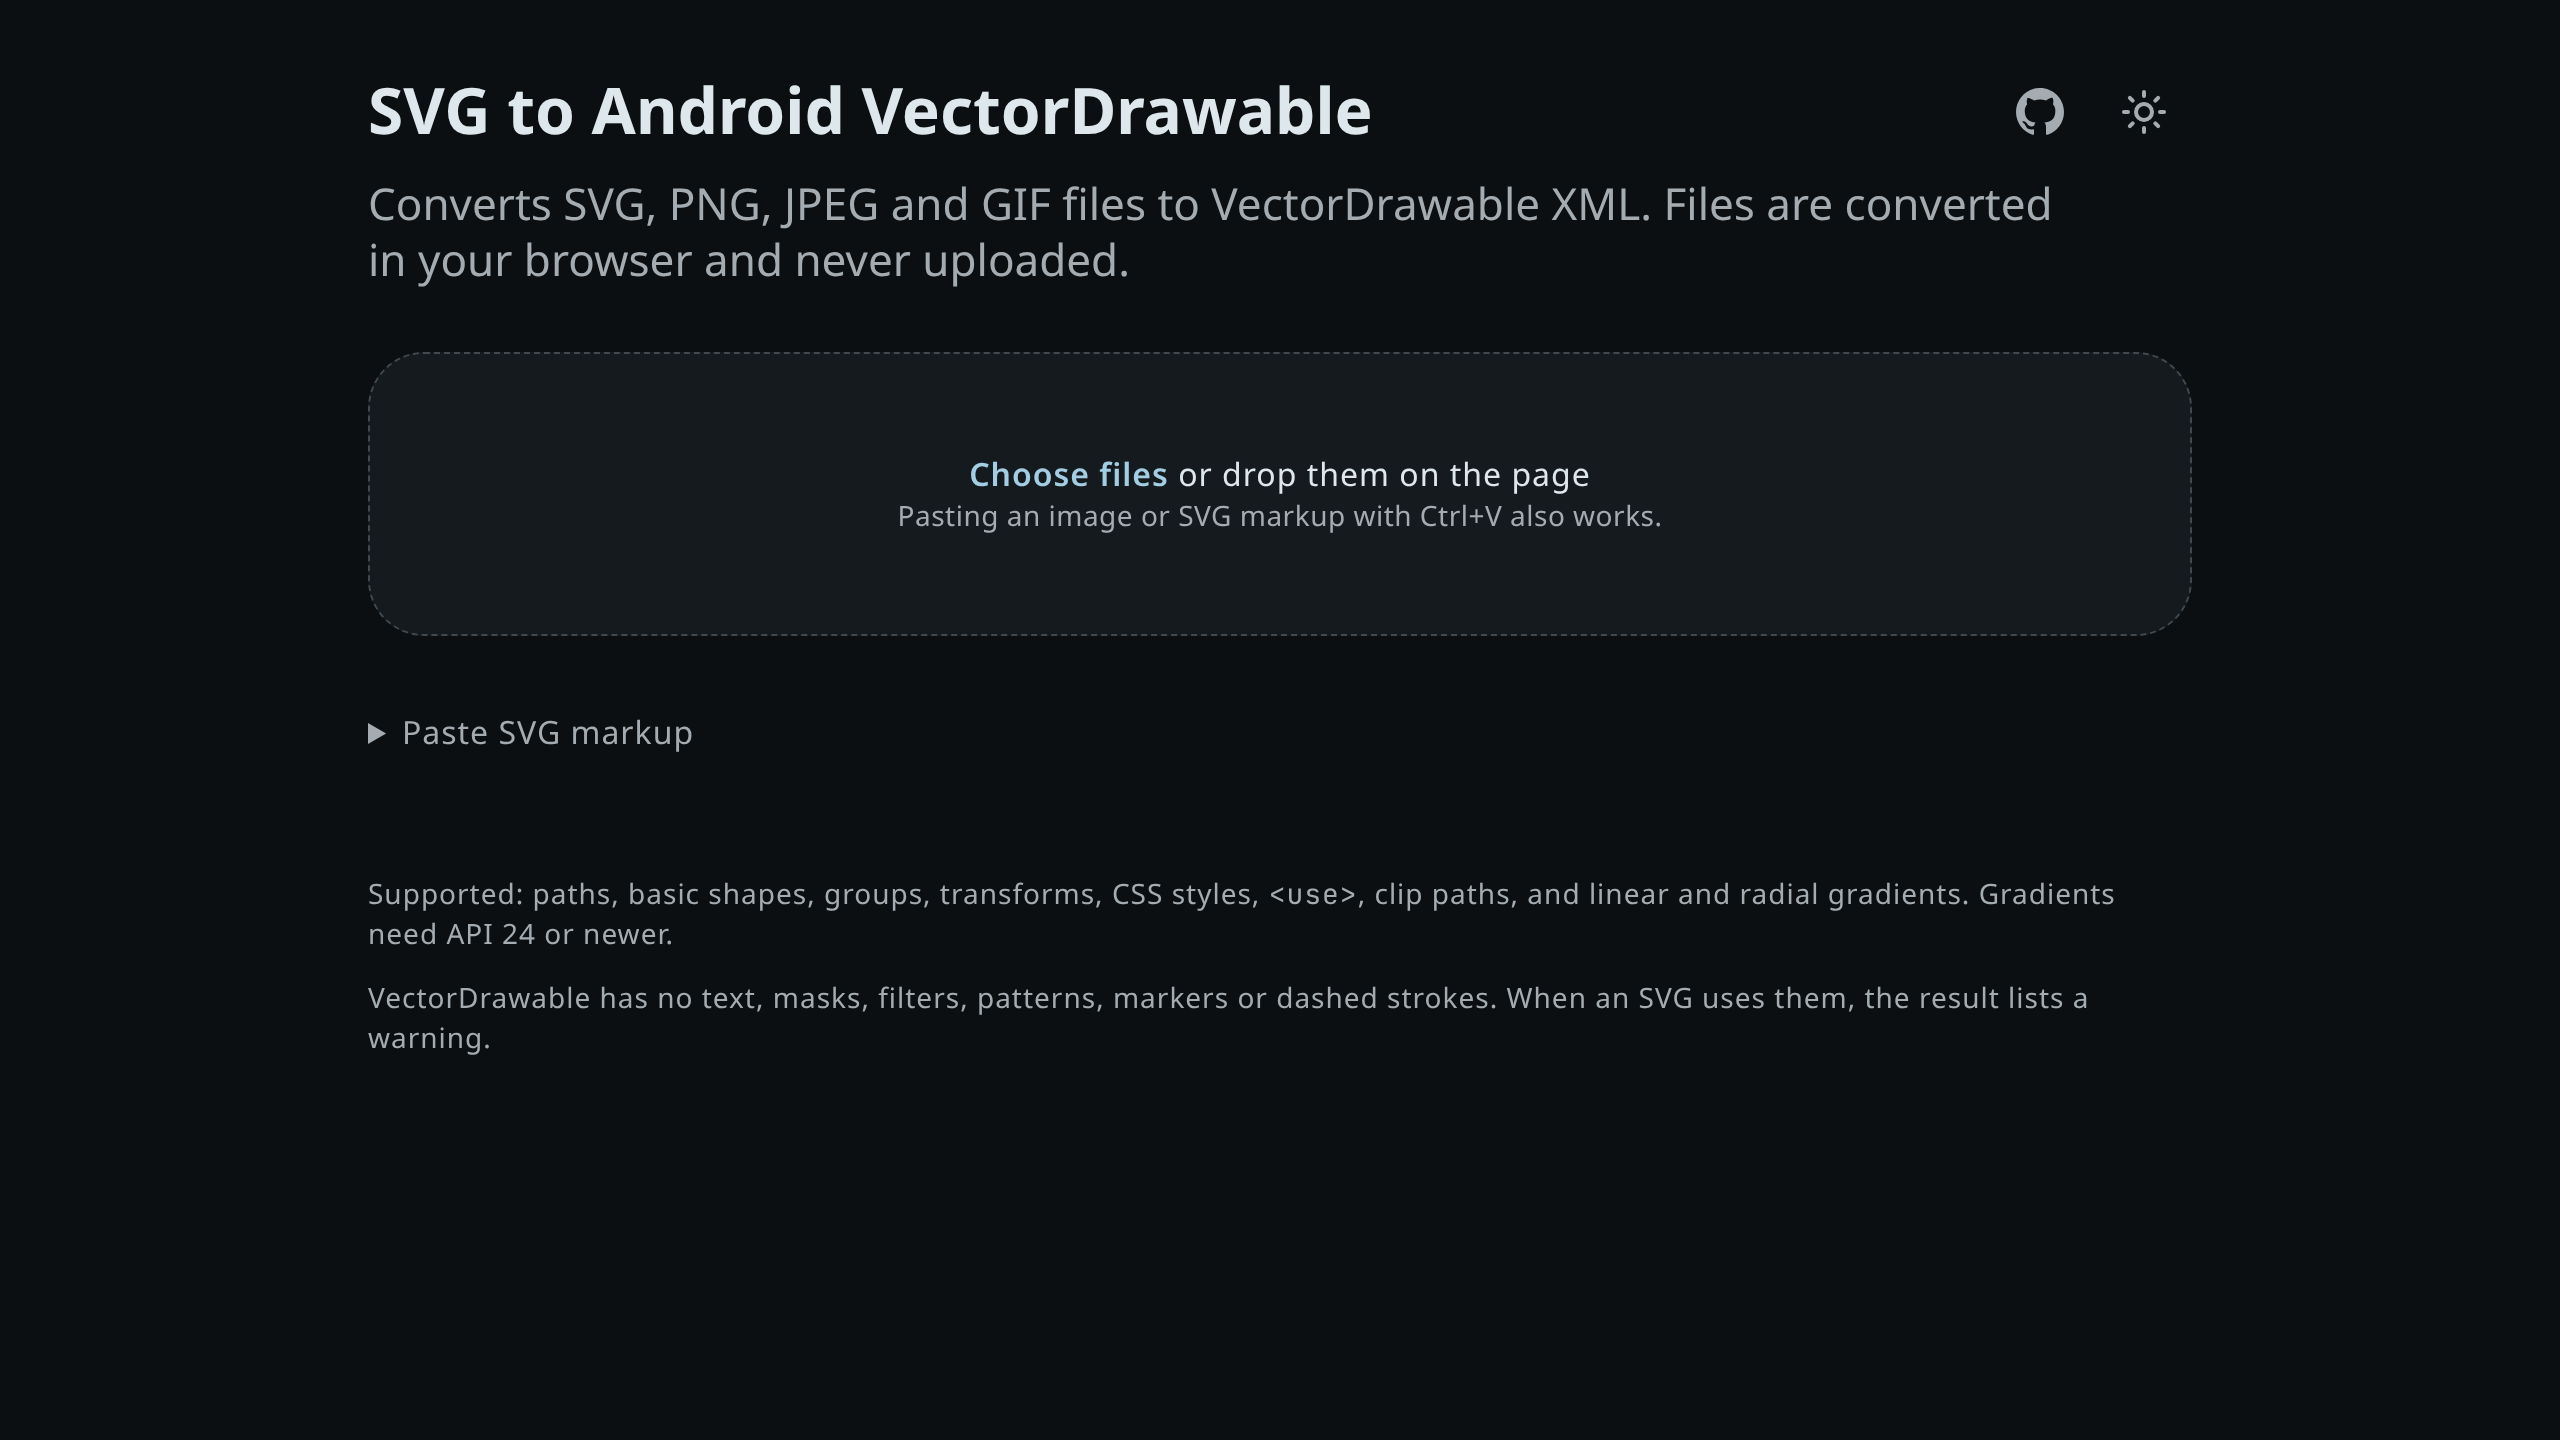
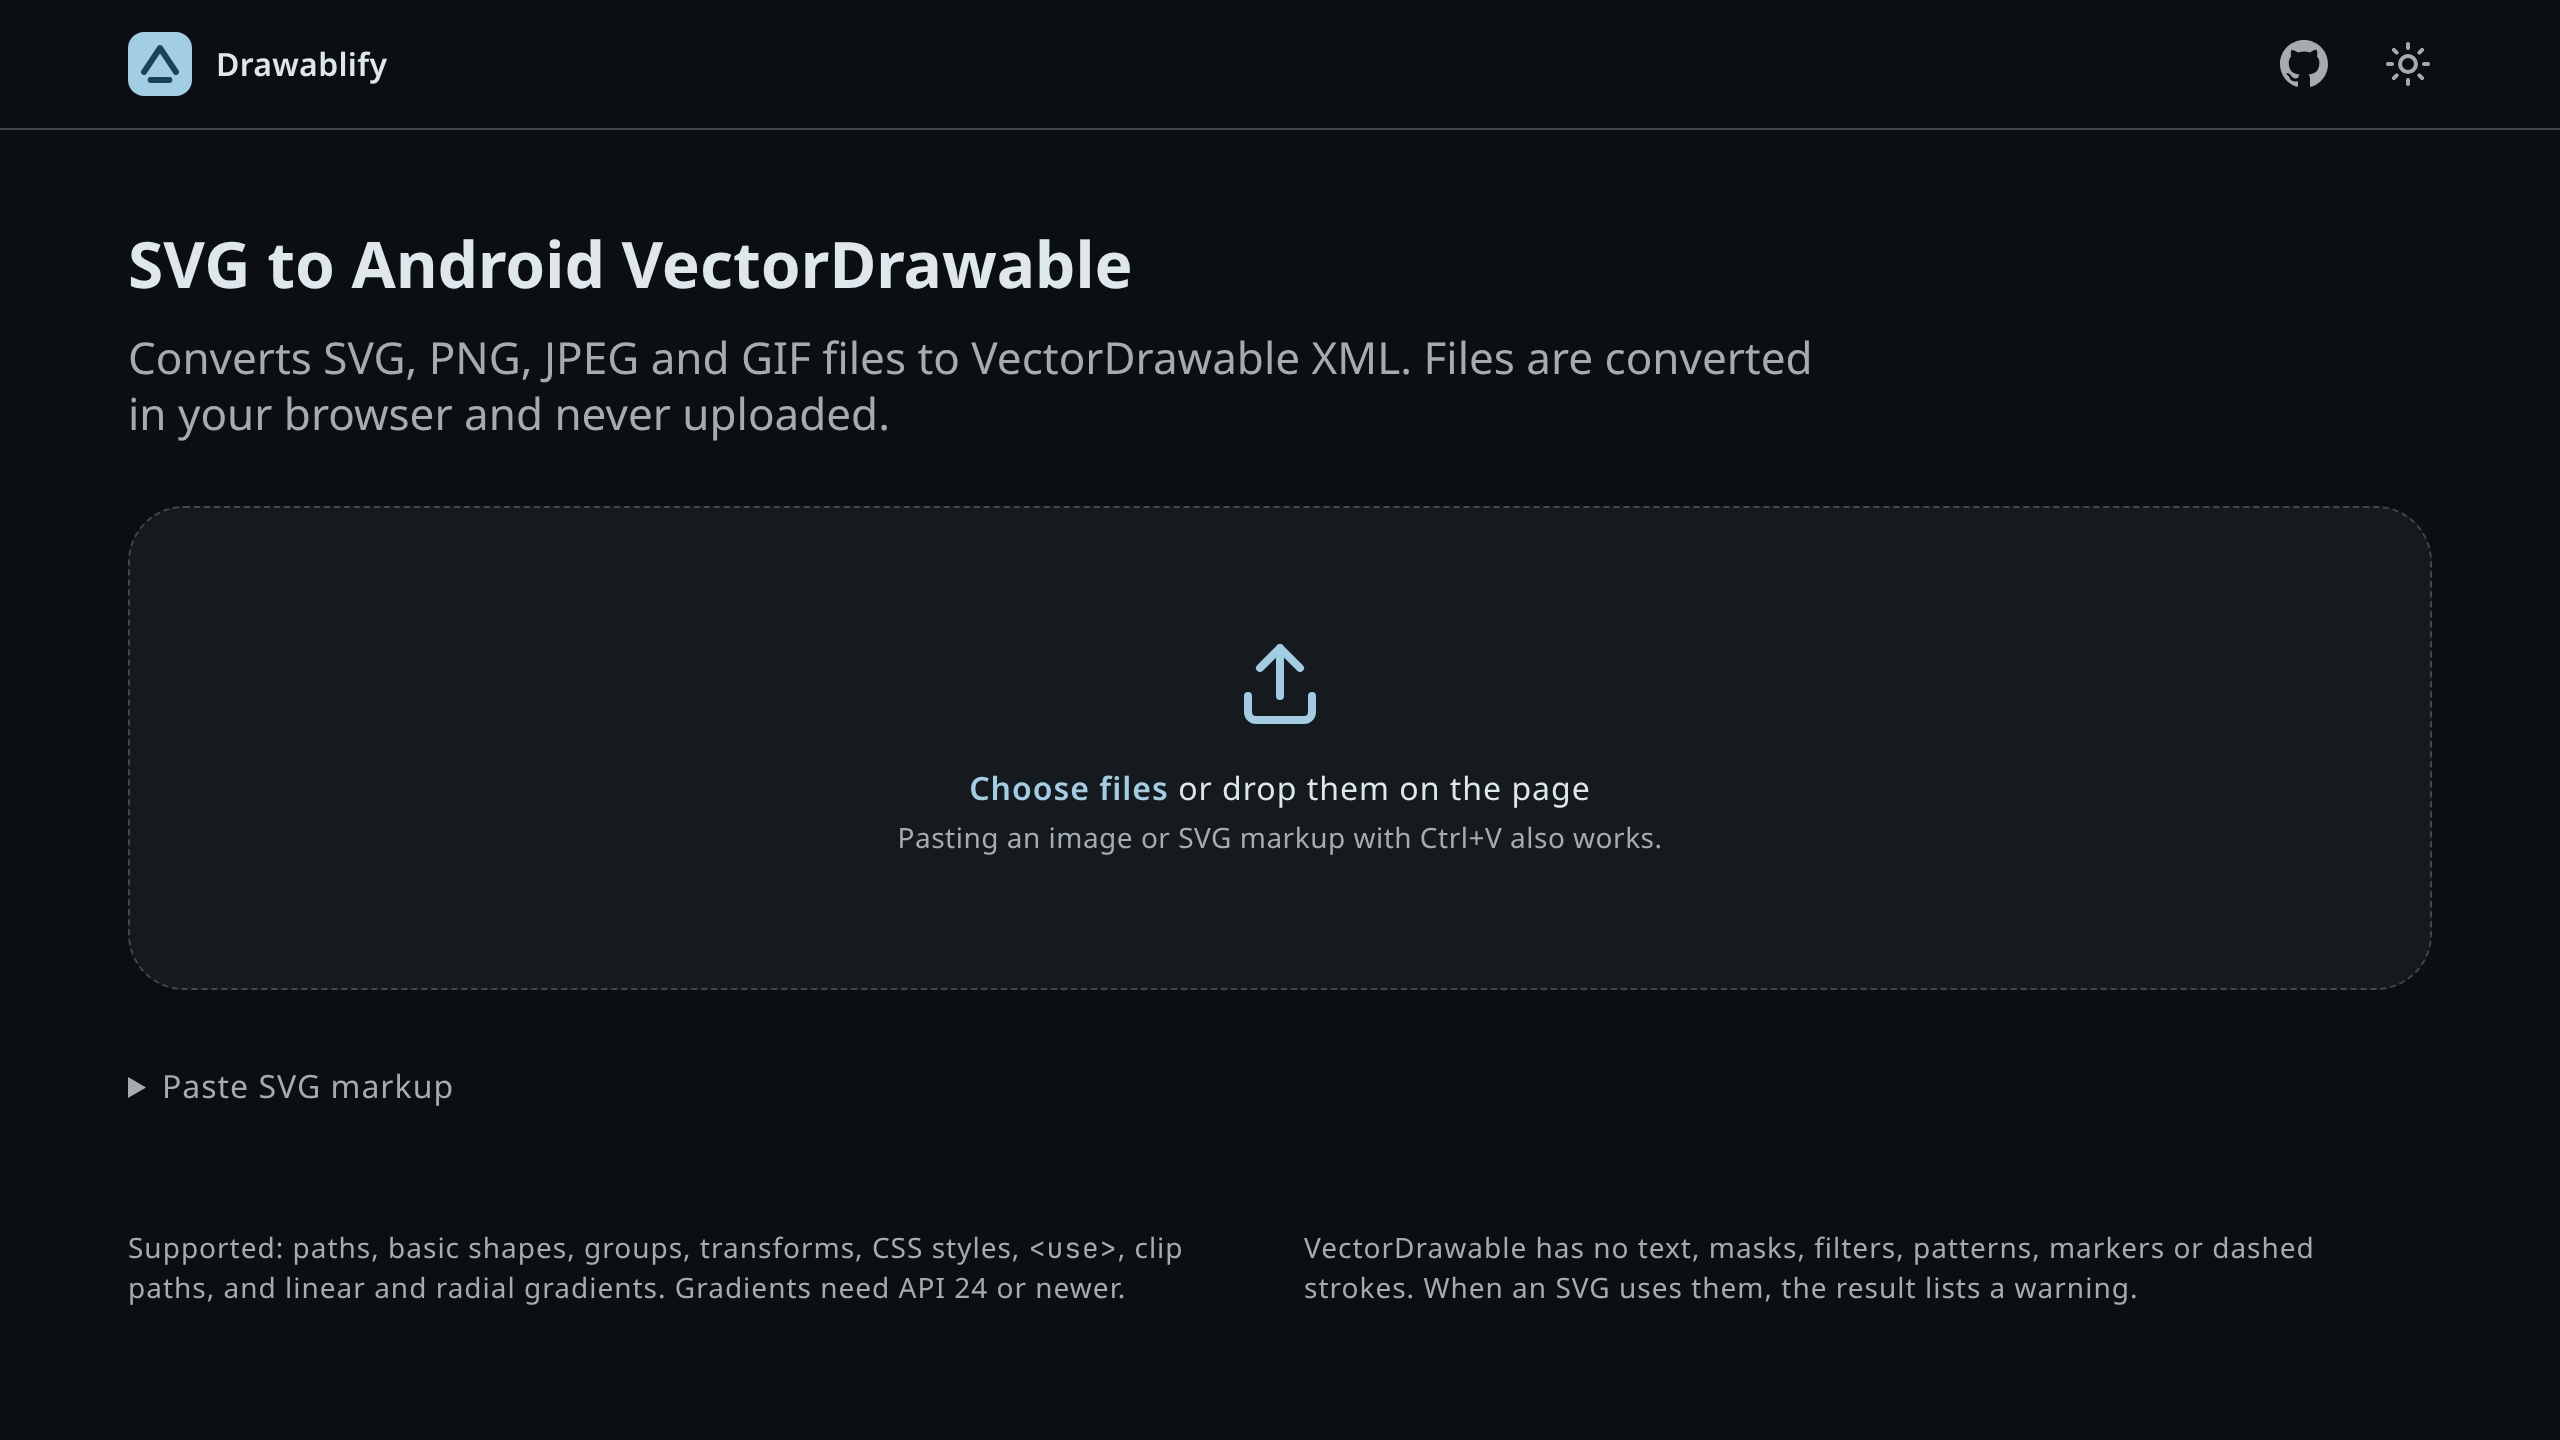
style: add a top bar and use the width on large screens
A sticky bar holds the name, the GitHub link and the theme toggle. The
content column grows to 1200px, and from 900px a result card puts the
previews beside the XML instead of stacking them. Screenshots updated.

diff --git a/index.html b/index.html
@@ -56,18 +56,23 @@ body, .card, textarea, select, input, dialog {
 }
 [hidden] { display: none !important; }
 body { margin: 0; background: var(--surface); color: var(--on-surface); font: 400 16px/24px var(--sans); letter-spacing: .5px; }
-main { max-width: 960px; margin: 0 auto; padding: 32px 24px 64px; }
+main { max-width: 1200px; margin: 0 auto; padding: 48px 24px 64px; }
 
-.top { display: flex; align-items: flex-start; justify-content: space-between; gap: 16px; }
-h1 { font-size: 32px; line-height: 40px; font-weight: 700; letter-spacing: 0; margin: 4px 0 12px; }
-.top nav { display: flex; gap: 4px; flex: none; }
+/* The bar spans the window and stays put; its content lines up with main below it. */
+.appbar { position: sticky; top: 0; z-index: 1; background: var(--surface); border-bottom: 1px solid var(--outline-variant); }
+.appbar nav { max-width: 1200px; margin: 0 auto; padding: 8px 12px 8px 24px; display: flex; align-items: center; gap: 4px; }
+.brand { display: flex; align-items: center; gap: 12px; margin-right: auto; color: inherit; text-decoration: none;
+  font-size: 16px; line-height: 24px; font-weight: 600; letter-spacing: .15px; }
+.brand img { width: 32px; height: 32px; }
+h1 { font-size: 32px; line-height: 40px; font-weight: 700; letter-spacing: 0; margin: 0 0 12px; }
 .intro { font-size: 22px; line-height: 28px; color: var(--on-surface-variant); margin: 0 0 32px; max-width: 68ch; letter-spacing: 0; }
 .small { color: var(--on-surface-variant); font-size: 14px; line-height: 20px; letter-spacing: .25px; }
 
-#drop { display: block; border: 1px dashed var(--outline-variant); border-radius: 28px; padding: 48px 24px; text-align: center;
+#drop { display: grid; justify-items: center; gap: 4px; border: 1px dashed var(--outline-variant); border-radius: 28px; padding: 64px 24px; text-align: center;
   cursor: pointer; background: var(--surface-container); transition: background var(--motion-effects), border-color var(--motion-effects); }
 #drop:focus-within, .over #drop { border-color: var(--primary); }
 .over #results { outline: 1px dashed var(--primary); outline-offset: 8px; border-radius: 28px; }
+#drop svg { width: 48px; height: 48px; color: var(--primary); margin-bottom: 12px; }
 #drop strong { color: var(--primary); font-weight: 600; }
 #drop input { position: absolute; opacity: 0; width: 1px; height: 1px; }
 
@@ -156,6 +161,18 @@ dialog.closing::backdrop { animation: fade var(--motion-effects) reverse forward
 
 footer { margin-top: 48px; color: var(--on-surface-variant); font-size: 14px; line-height: 20px; }
 footer p { margin: 0 0 12px; }
+/* Wide screens: the card turns sideways, previews on the left and the XML filling the right, so a
+   result fits on one screen instead of being a tall strip down the middle. */
+@media (min-width: 900px) {
+  .body { display: grid; grid-template-columns: minmax(0, 5fr) minmax(0, 7fr); grid-template-rows: auto 1fr auto; column-gap: 24px;
+    grid-template-areas: "prev xml" "warn xml" ". act"; margin-top: 12px; }
+  .previews { grid-area: prev; margin: 0; }
+  .previews img { height: 224px; }
+  .warnings { grid-area: warn; margin: 12px 0 0; }
+  .body textarea { grid-area: xml; min-height: 0; }
+  .actions { grid-area: act; }
+  footer { display: grid; grid-template-columns: 1fr 1fr; gap: 24px; }
+}
 code { font-family: var(--mono); }
 
 /* Hover only where there is a real pointer: on touch screens a tapped element would stay "hovered". */
@@ -188,6 +205,7 @@ button, .icon, summary, label { -webkit-tap-highlight-color: transparent; }
   #viewer-img { height: 45dvh; }
 
   main { padding: 24px 16px 48px; }
+  .appbar nav { padding: 4px 4px 4px 16px; }
   h1 { font-size: 28px; line-height: 36px; }
   .intro { font-size: 16px; line-height: 24px; }
 }
@@ -198,25 +216,27 @@ button, .icon, summary, label { -webkit-tap-highlight-color: transparent; }
 </style>
 </head>
 <body>
+<header class="appbar">
+  <nav>
+    <a class="brand" href="./"><img src="icon.svg" alt="">Drawablify</a>
+    <a class="icon" href="https://github.com/ravindu644/drawablify" aria-label="Source code on GitHub" title="Source code on GitHub">
+      <svg viewBox="0 0 16 16" fill="currentColor" aria-hidden="true"><path d="M8 0C3.58 0 0 3.58 0 8c0 3.54 2.29 6.53 5.47 7.59.4.07.55-.17.55-.38 0-.19-.01-.82-.01-1.49-2.01.37-2.53-.49-2.69-.94-.09-.23-.48-.94-.82-1.13-.28-.15-.68-.52-.01-.53.63-.01 1.08.58 1.23.82.72 1.21 1.87.87 2.33.66.07-.52.28-.87.51-1.07-1.78-.2-3.64-.89-3.64-3.95 0-.87.31-1.59.82-2.15-.08-.2-.36-1.02.08-2.12 0 0 .67-.21 2.2.82.64-.18 1.32-.27 2-.27.68 0 1.36.09 2 .27 1.53-1.04 2.2-.82 2.2-.82.44 1.1.16 1.92.08 2.12.51.56.82 1.27.82 2.15 0 3.07-1.87 3.75-3.65 3.95.29.25.54.73.54 1.48 0 1.07-.01 1.93-.01 2.2 0 .21.15.46.55.38A8.013 8.013 0 0016 8c0-4.42-3.58-8-8-8z"/></svg>
+    </a>
+    <button id="theme" class="icon" type="button" aria-label="Switch theme" title="Switch theme">
+      <svg class="sun" viewBox="0 0 24 24" fill="none" stroke="currentColor" stroke-width="2" stroke-linecap="round" aria-hidden="true"><circle cx="12" cy="12" r="4"/><path d="M12 2v2M12 20v2M4.93 4.93l1.41 1.41M17.66 17.66l1.41 1.41M2 12h2M20 12h2M4.93 19.07l1.41-1.41M17.66 6.34l1.41-1.41"/></svg>
+      <svg class="moon" viewBox="0 0 24 24" fill="none" stroke="currentColor" stroke-width="2" stroke-linejoin="round" aria-hidden="true"><path d="M21 12.79A9 9 0 1 1 11.21 3 7 7 0 0 0 21 12.79z"/></svg>
+    </button>
+  </nav>
+</header>
 <main>
-  <div class="top">
-    <h1>SVG to Android VectorDrawable</h1>
-    <nav>
-      <a class="icon" href="https://github.com/ravindu644/drawablify" aria-label="Source code on GitHub" title="Source code on GitHub">
-        <svg viewBox="0 0 16 16" fill="currentColor" aria-hidden="true"><path d="M8 0C3.58 0 0 3.58 0 8c0 3.54 2.29 6.53 5.47 7.59.4.07.55-.17.55-.38 0-.19-.01-.82-.01-1.49-2.01.37-2.53-.49-2.69-.94-.09-.23-.48-.94-.82-1.13-.28-.15-.68-.52-.01-.53.63-.01 1.08.58 1.23.82.72 1.21 1.87.87 2.33.66.07-.52.28-.87.51-1.07-1.78-.2-3.64-.89-3.64-3.95 0-.87.31-1.59.82-2.15-.08-.2-.36-1.02.08-2.12 0 0 .67-.21 2.2.82.64-.18 1.32-.27 2-.27.68 0 1.36.09 2 .27 1.53-1.04 2.2-.82 2.2-.82.44 1.1.16 1.92.08 2.12.51.56.82 1.27.82 2.15 0 3.07-1.87 3.75-3.65 3.95.29.25.54.73.54 1.48 0 1.07-.01 1.93-.01 2.2 0 .21.15.46.55.38A8.013 8.013 0 0016 8c0-4.42-3.58-8-8-8z"/></svg>
-      </a>
-      <button id="theme" class="icon" type="button" aria-label="Switch theme" title="Switch theme">
-        <svg class="sun" viewBox="0 0 24 24" fill="none" stroke="currentColor" stroke-width="2" stroke-linecap="round" aria-hidden="true"><circle cx="12" cy="12" r="4"/><path d="M12 2v2M12 20v2M4.93 4.93l1.41 1.41M17.66 17.66l1.41 1.41M2 12h2M20 12h2M4.93 19.07l1.41-1.41M17.66 6.34l1.41-1.41"/></svg>
-        <svg class="moon" viewBox="0 0 24 24" fill="none" stroke="currentColor" stroke-width="2" stroke-linejoin="round" aria-hidden="true"><path d="M21 12.79A9 9 0 1 1 11.21 3 7 7 0 0 0 21 12.79z"/></svg>
-      </button>
-    </nav>
-  </div>
+  <h1>SVG to Android VectorDrawable</h1>
   <p class="intro">Converts SVG, PNG, JPEG and GIF files to VectorDrawable XML. Files are converted in your browser and never uploaded.</p>
 
   <section id="start">
     <label id="drop">
       <input id="file" type="file" multiple accept=".svg,image/svg+xml,image/png,image/jpeg,image/gif,image/webp,image/bmp">
-      <strong>Choose files</strong><span class="pointer-only"> or drop them on the page</span>
+      <svg viewBox="0 0 24 24" fill="none" stroke="currentColor" stroke-width="2" stroke-linecap="round" stroke-linejoin="round" aria-hidden="true"><path d="M12 15V3M7 8l5-5 5 5M4 15v4a2 2 0 0 0 2 2h12a2 2 0 0 0 2-2v-4"/></svg>
+      <span><strong>Choose files</strong><span class="pointer-only"> or drop them on the page</span></span>
       <div class="small pointer-only">Pasting an image or SVG markup with Ctrl+V also works.</div>
     </label>
     <details>

diff --git a/sw.js b/sw.js
@@ -1,5 +1,5 @@
 // Offline-first: serve from cache, refresh the cache in the background.
-const CACHE = 'svg2vd-v6';
+const CACHE = 'svg2vd-v7';
 const FILES = ['./', 'index.html', 'theme.js', 'app.js', 'convert.js', 'trace-worker.js', 'vendor/imagetracer.js', 'icon.svg'];
 addEventListener('install', e => e.waitUntil(caches.open(CACHE).then(c => c.addAll(FILES)).then(() => skipWaiting())));
 addEventListener('activate', e => e.waitUntil(caches.keys().then(ks => Promise.all(ks.filter(k => k !== CACHE).map(k => caches.delete(k))))));

diff --git a/DESIGN.md b/DESIGN.md
@@ -211,7 +211,8 @@ headline, 600 for titles and labels, 400 for everything else.
 | XML, SVG markup | `code`, 14/22 |
 
 The intro sentence is capped at 68 characters a line. The footer notes run the full content
-width: they are two short reference lines, and a cap left a ragged empty column beside them.
+width, side by side from 900px: they are two short reference lines, and a cap left a ragged empty
+column beside them.
 Headlines are one sentence in one colour.
 
 ## Layout
@@ -225,16 +226,24 @@ wants 32 or 48.
 | Card inner padding | 24 |
 | Between result cards | 16 |
 | Page side gutter | 24, and 16 under 600px |
-| Content max width | 960px |
+| Content max width | 1200px |
+
+A sticky top bar spans the window: the icon and "Drawablify" on the left, the GitHub link and
+the theme toggle on the right. Its content lines up with the column below, and a 1px
+`outline-variant` line separates it from the page.
 
 One column. The page has two states and shows only what the current one needs.
 
-- **Empty:** header, intro, drop zone, the "Paste SVG markup" disclosure, footer.
-- **Loaded:** header, intro, the options row with Reset, a one-line hint, the inputs as result
+- **Empty:** title, intro, drop zone, the "Paste SVG markup" disclosure, footer.
+- **Loaded:** title, intro, the options row with Reset, a one-line hint, the inputs as result
   cards (newest first), footer. The drop zone and paste box are hidden. Dropping or pasting
   still adds files.
 
 Removing the last card returns to the empty state.
+
+From 900px wide, a result card turns sideways: the two previews (224px tall) on the left, the
+XML on the right filling the card's height, Copy and Download under the XML. The two footer notes
+sit side by side. A tall card down the middle of a wide screen left most of it empty.
 
 ### Mobile
 
